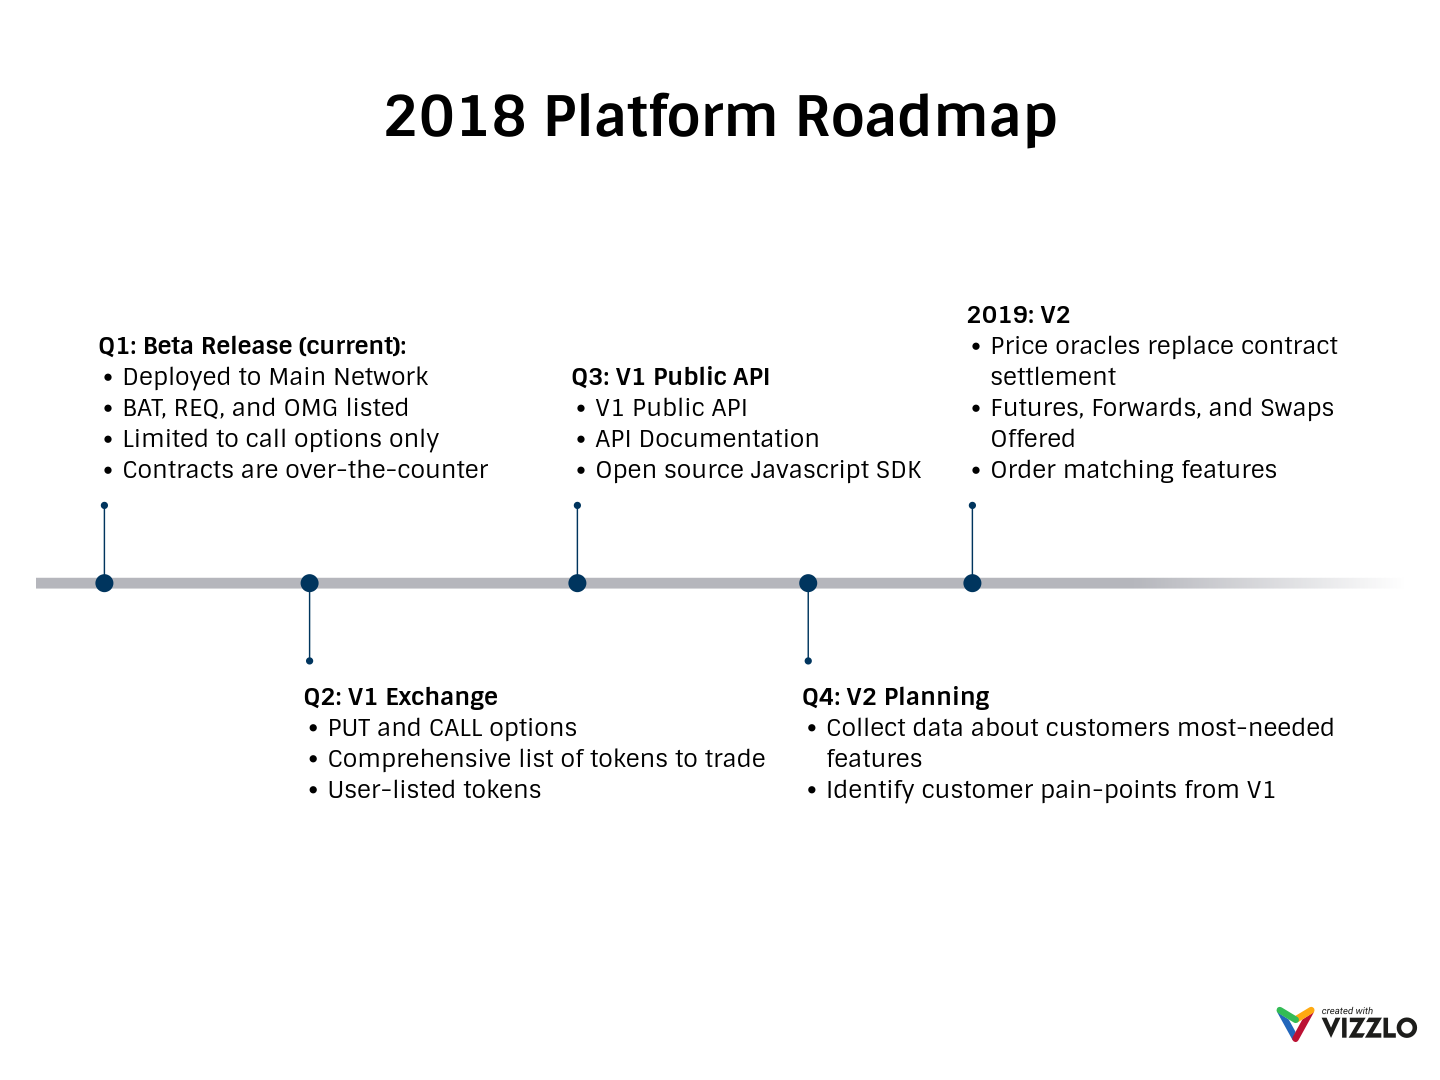
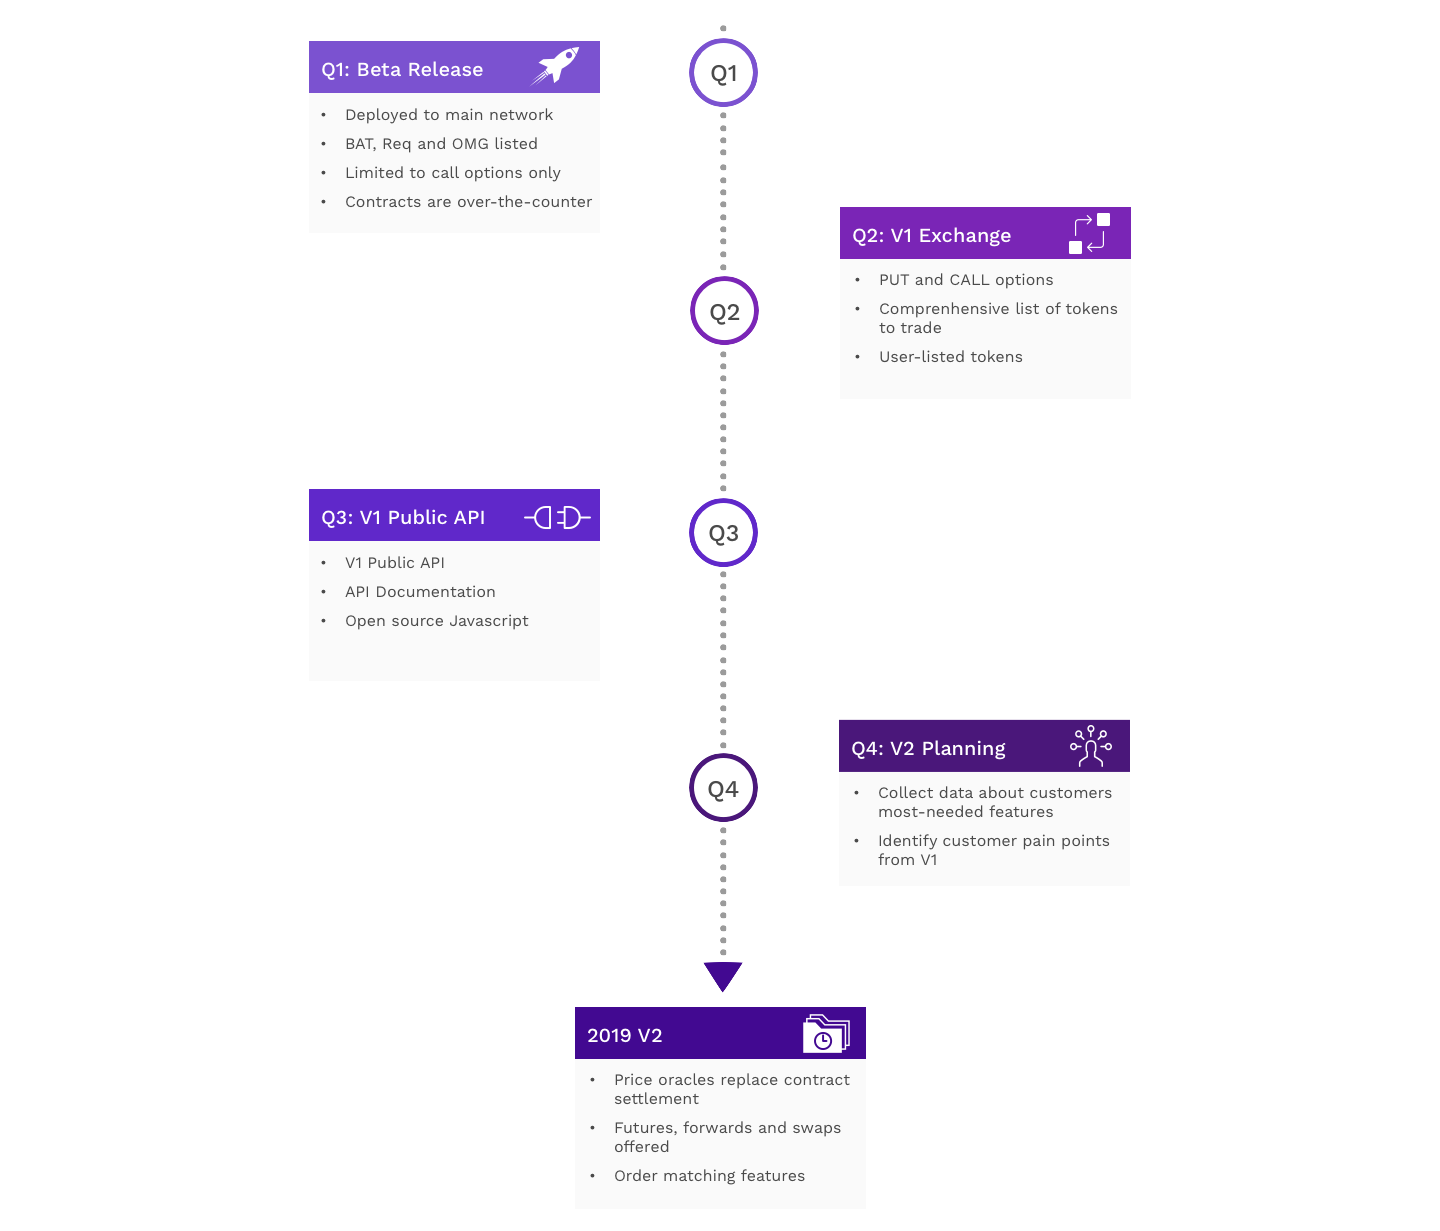
working in Alis designs

diff --git a/src/js/App.js b/src/js/App.js
@@ -10,6 +10,7 @@ import Paragraph from 'grommet/components/Paragraph'
 import Title from 'grommet/components/Title'
 
 // Icons
+import ActionIcon from 'grommet/components/icons/base/Action'
 import ShareIcon from 'grommet/components/icons/base/Share'
 import RedditIcon from 'grommet/components/icons/base/SocialReddit'
 import SVGIcon from 'grommet/components/SVGIcon'
@@ -92,41 +93,61 @@ export default class BasicApp extends Component {
                         </strong>
                     </Paragraph>
                 </Box> */}
-                <Box colorIndex='grey-1' full={true} style={{
-                        backgroundImage: 'url("/img/finance.jpg")'
+                <Box colorIndex='light-1' full={true} style={{
+                        // backgroundImage: 'url("/img/finance.jpg")'
                     }}>
                     <Header style={{background: 'none'}} pad='medium' justify='between'>
                         <Box size='small'>
-                            <Image src="/img/optimum-logo-title-light.png" />
+                            <Image src="/img/optimum-logo-title-dark.png" />
                         </Box>
 
                         <Menu direction='row' inline={true}>
                             <Button
-                                style={{fontWeight: 'bolder', color: 'white'}}
+                                // style={{fontWeight: 'bolder', color: 'white'}}
                                 href='#team'
                                 label='TEAM'
                                 plain={true} />
                             <Button
-                                style={{fontWeight: 'bolder', color: 'white'}}
+                                // style={{fontWeight: 'bolder', color: 'white'}}
                                 href='https://t.me/optimum'
                                 target='_blank'
                                 label='TELEGRAM'
                                 plain={true} />
 
                             <Button
-                                style={{fontWeight: 'bolder', color: 'white'}}
+                                // style={{fontWeight: 'bolder', color: 'white'}}
                                 href='#contact'
                                 label='CONTACT'
                                 plain={true} />
                             <Button
-                                style={{fontWeight: 'bolder', color: 'white'}}
+                                // style={{fontWeight: 'bolder', color: 'white'}}
                                 href='https://medium.com/@optimum_network'
                                 label='BLOG'
                                 plain={true} />
                         </Menu>
                     </Header>
 
-                    <Box>
+                    <Box pad='large' margin={{top: 'large'}} basis='full' style={{backgroundImage: "url('/img/squared-triangles.png')", backgroundSize: 'contain'}}>
+                        <Box size='xxlarge'>
+                            <Heading tag='h1' style={{fontSize: '5em'}} strong={true}>
+                                Decentralized options trading.
+                            </Heading>
+                            <Paragraph size='large'>
+                                <b>
+                                    Peer-to-peer decentralized exchange for CALL and PUT options on ETH.
+                                </b>
+                            </Paragraph>
+
+                            <Box direction='row'>
+                                <Box margin={{right: 'large'}}>
+                                    <Button href='/' label='LEARN MORE' />
+                                </Box>
+                                <Button href='/' primary={true} label='START TRADING' />
+                            </Box>
+                        </Box>
+                    </Box>
+
+                    {/* <Box>
                         <Box alignSelf='center' textAlign='center' pad='large' margin={{top: 'large'}} size='xlarge'>
                             <Heading tag='h1' strong={true}>
                                 Decentralized options trading.
@@ -150,11 +171,34 @@ export default class BasicApp extends Component {
                                 <SocialMenu />
                             </Box>
                         </Box>
-                    </Box>
+                    </Box> */}
                 </Box>
 
                 <Box id='roadmap' align='center' colorIndex='light-2'>
+                    <Box direction='row' size='xxlarge' justify='around' align='center'>
+                        <Box size='medium'>
+                            <Box responsive={false} colorIndex='neutral-3-a' direction='row' justify='between' align='center' pad={{horizontal: 'small'}}>
+                                <Box pad={{vertical: 'small'}}>
+                                    Q3: API RELEASE
+                                </Box>
+                                <ActionIcon />
+                            </Box>
+                            <Box colorIndex='light-1' pad={{vertical: 'small'}}>
+                                <ul>
+                                    <li>Programmable API for algorithmic traders</li>
+                                </ul>
+                            </Box>
+                        </Box>
+                        <Box colorIndex='neutral-3-a' style={{borderRadius: '50%', padding: '4px', height: '60px', width: '60px'}}>
+                            <Box colorIndex='light-1' style={{width: '100%', height: '100%', borderRadius: '50%'}} align='center' justify='center'>
+                                Q3
+                            </Box>
+                        </Box>
+                        <Box size='medium'>
+                        </Box>
+                    </Box>
                     <Box size='xxlarge' pad='large' align='center'>
+                        <Heading tag='h2'>Roadmap</Heading>
                         <img src='img/roadmap.png' />
                     </Box>
                 </Box>
